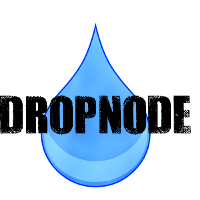
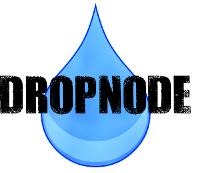
added gradient nonsense

diff --git a/public/stylesheets/style.css b/public/stylesheets/style.css
@@ -1,7 +1,8 @@
 body {
   padding: 20px;
   font: 14px "Lucida Grande", "Helvetica Nueue", Arial, sans-serif;
-  background-color: #43768e;
+  background: #ffffff url(/images/bg.png) repeat-x;
+  background-attachment: fixed;
 }
 #votenodeko {
   position: fixed;
@@ -27,12 +28,15 @@ footer {
   margin: 5px 100px;
   color: #555;
 }
+#wrapper a#header {
+  text-decoration: none;
+}
 #wrapper h1 {
   position: absolute;
-  top: 5px;
-  left: 5px;
+  top: 0px;
+  left: 0px;
   width: 200px;
-  height: 200px;
+  height: 173px;
   background-image: url(/images/dropnode-medium.png);
   text-indent: -6000px;
 }

diff --git a/public/stylesheets/style.less b/public/stylesheets/style.less
@@ -1,7 +1,8 @@
 body {
   padding: 20px;
   font: 14px "Lucida Grande", "Helvetica Nueue", Arial, sans-serif;
-  background-color:#43768e;
+  background:#fff url(/images/bg.png) repeat-x;
+  background-attachment: fixed;
 }
 #votenodeko{
   position: fixed;
@@ -32,10 +33,10 @@ footer{
   }
   h1{
     position: absolute;
-    top: 5px;
-    left: 5px;
+    top: 0px;
+    left: 0px;
     width: 200px;
-    height: 200px;
+    height: 173px;
     background-image: url(/images/dropnode-medium.png);
     text-indent:-6000px;
   }
